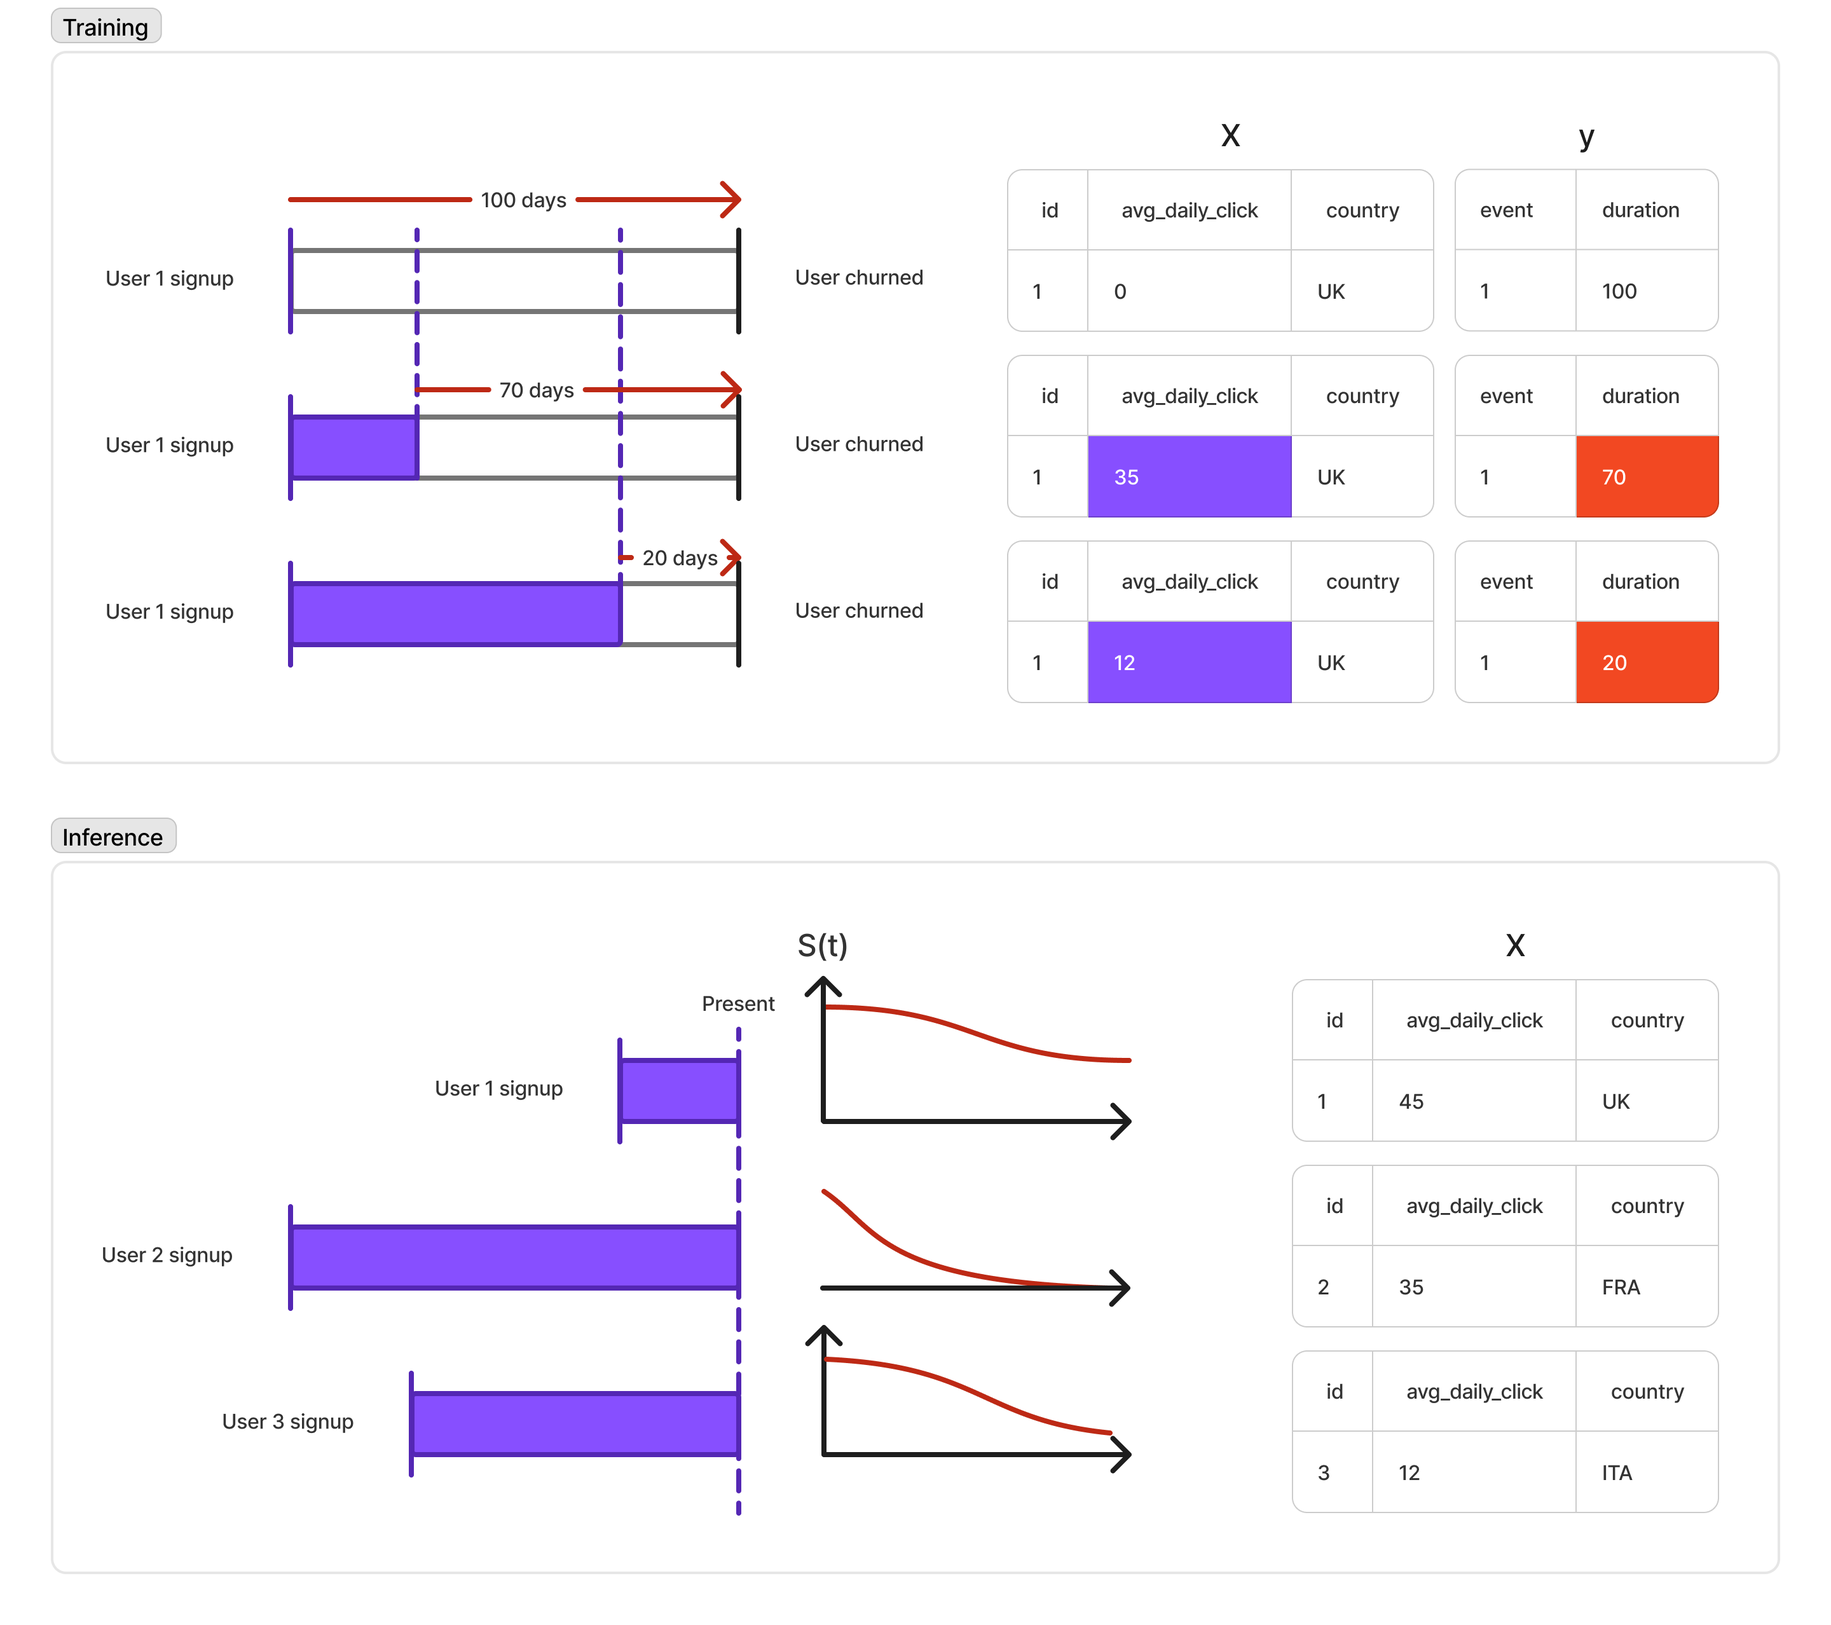
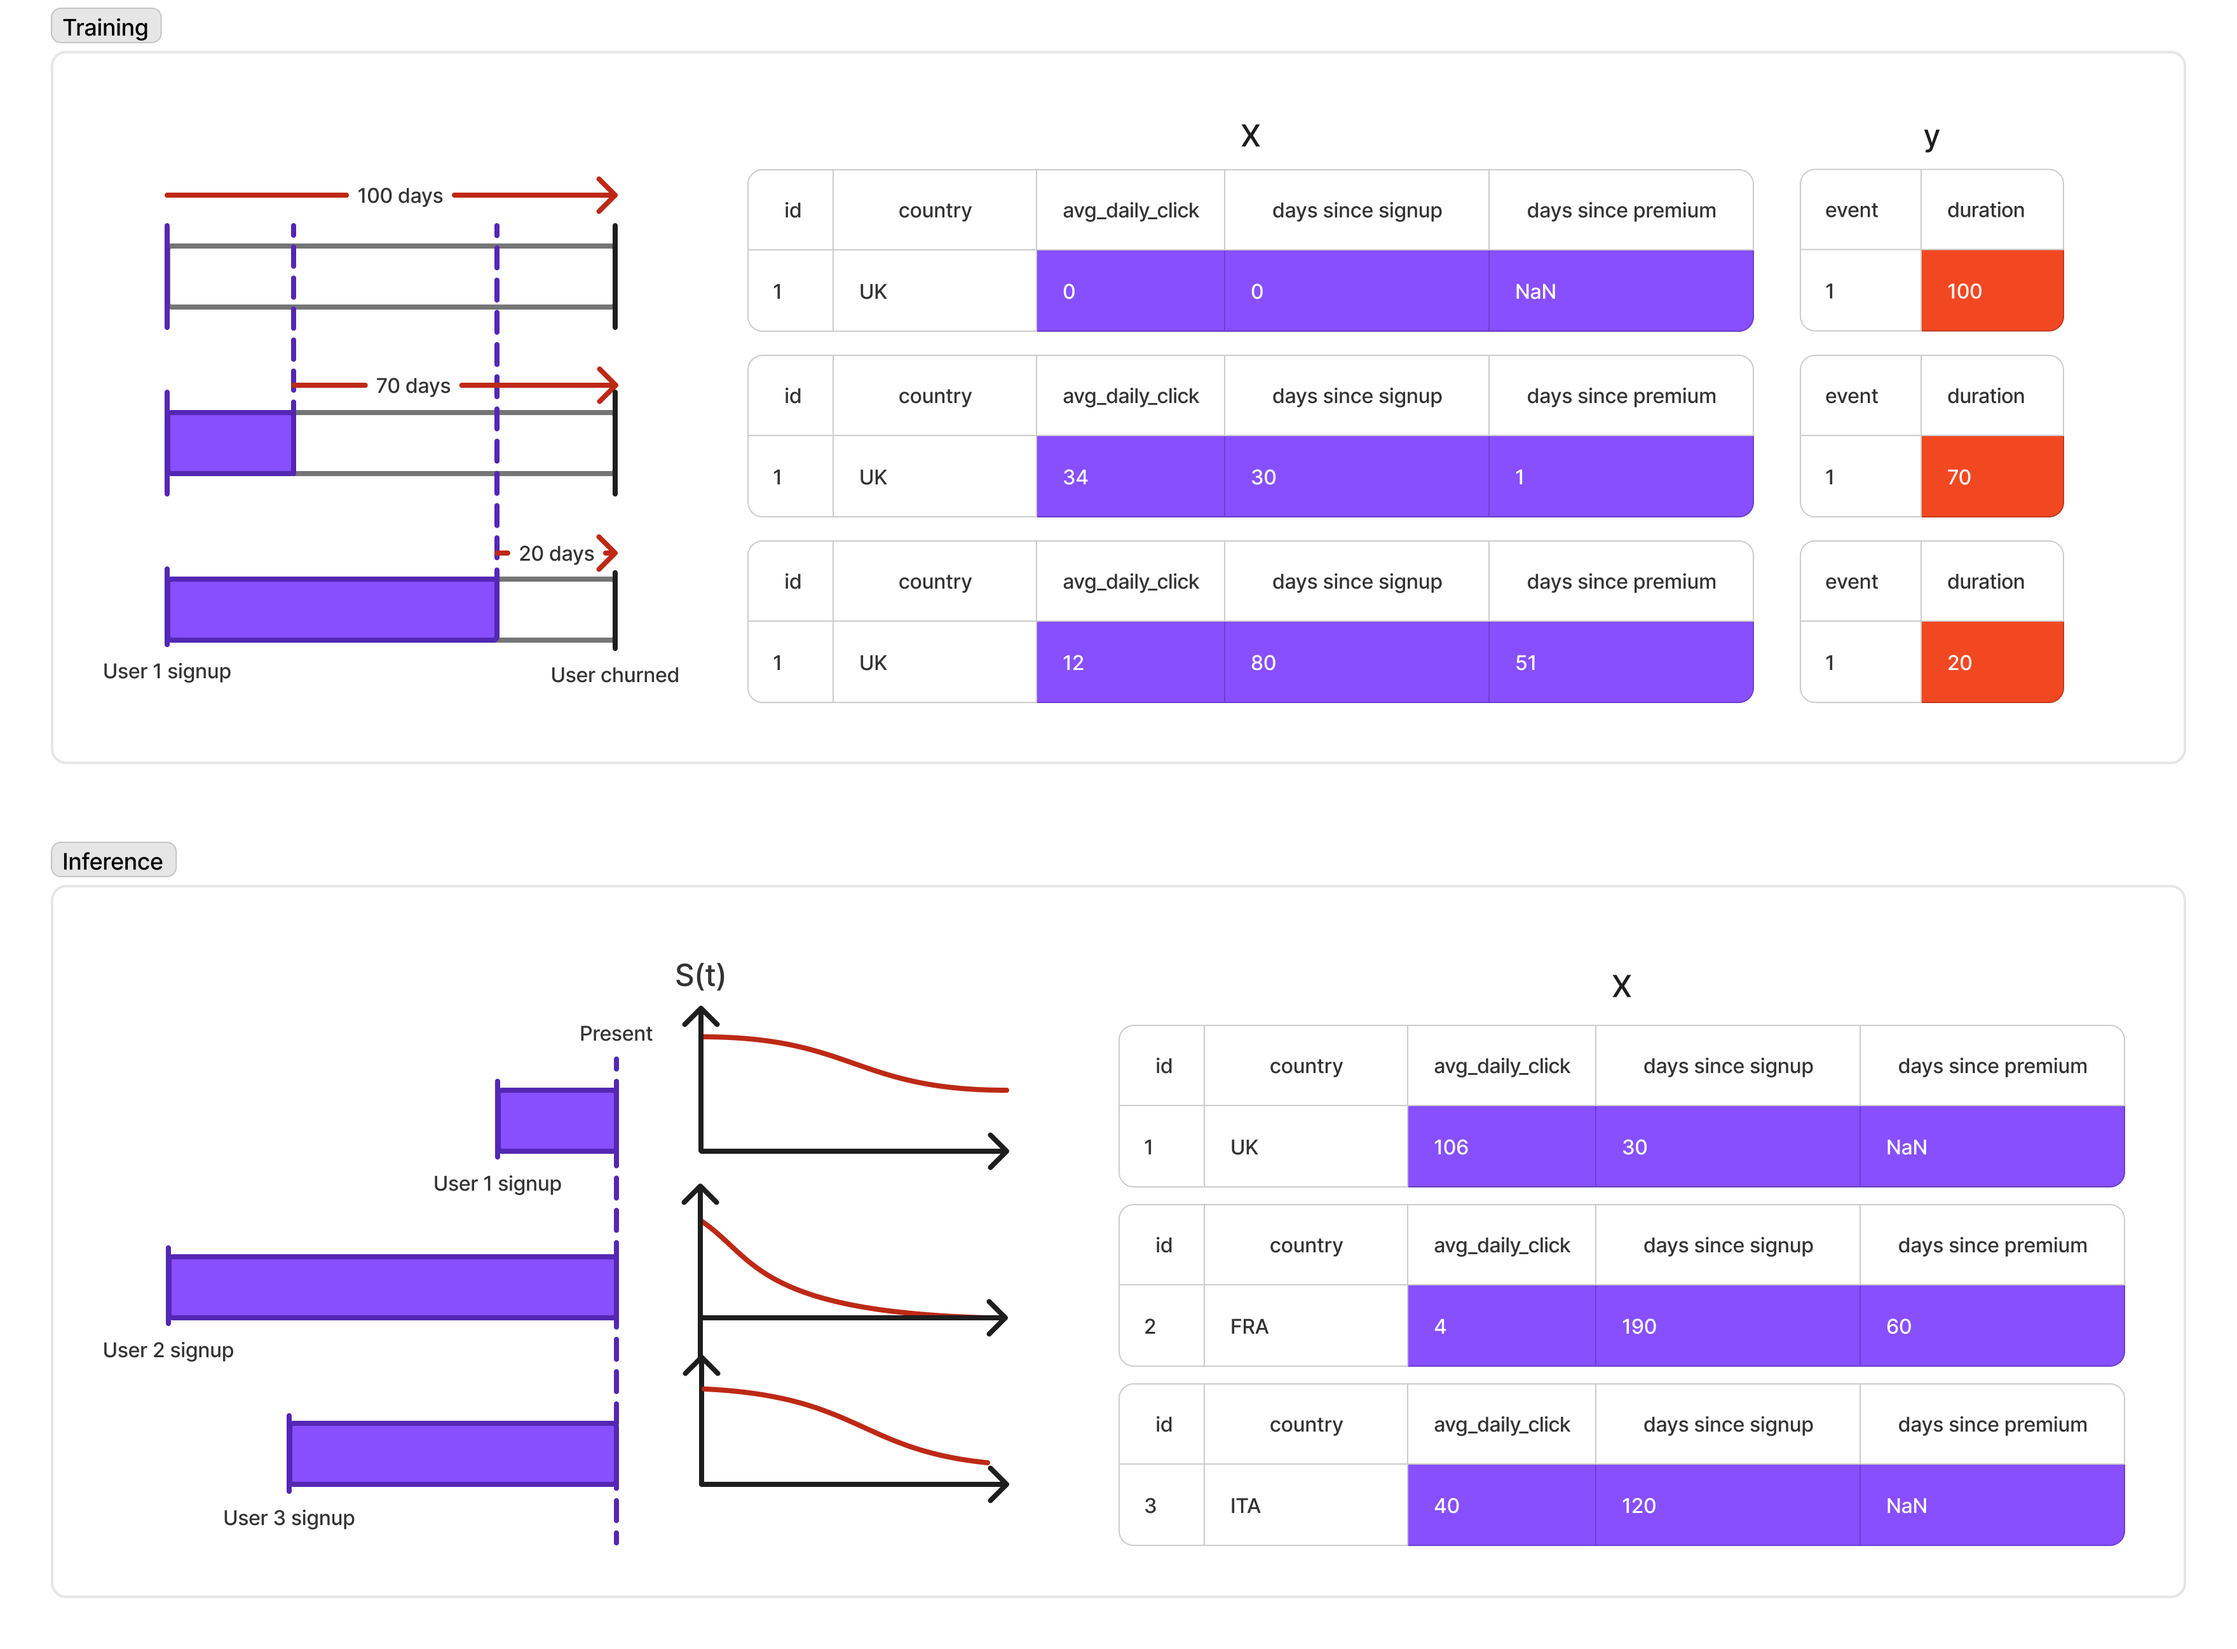
add schemas

diff --git a/tutorial.py b/tutorial.py
@@ -688,7 +688,7 @@ for percentile in [0.25, 0.75]:
 # and reassess its calibration for each horizon. Predicting multiple horizons also
 # provides more context and can help in decision making and uncertainty estimation.
 # 
-# <img src="assets/survival_vs_classification.png">
+# <img src="assets/survival_vs_classification.png" style="width:60%">
 # 
 # ### Time-varying feature, a current implementation limitation
 #
@@ -698,11 +698,7 @@ for percentile in [0.25, 0.75]:
 # on evaluation is necessary.
 #
 # Survival analysis therefore limit the study to features available at the beginning of
-# the study. In churn analysis, this would mean training models for specific milestones
-# like "acquiring a new user", or "this user became a premium user".
-#
-# <TODO schema 3>
-# <TODO schema 4>
+# the study.
 #
 # You can experiment with feature and target preprocessing by sampling a fixed number of
 # time of observation per individual, and compute the features available at that time,
@@ -716,4 +712,3 @@ for percentile in [0.25, 0.75]:
 # In this situation, if you don't have in-study censoring, fixed-horizon classification
 # might be preferable.
 #
-# <TODO schema 6?>
